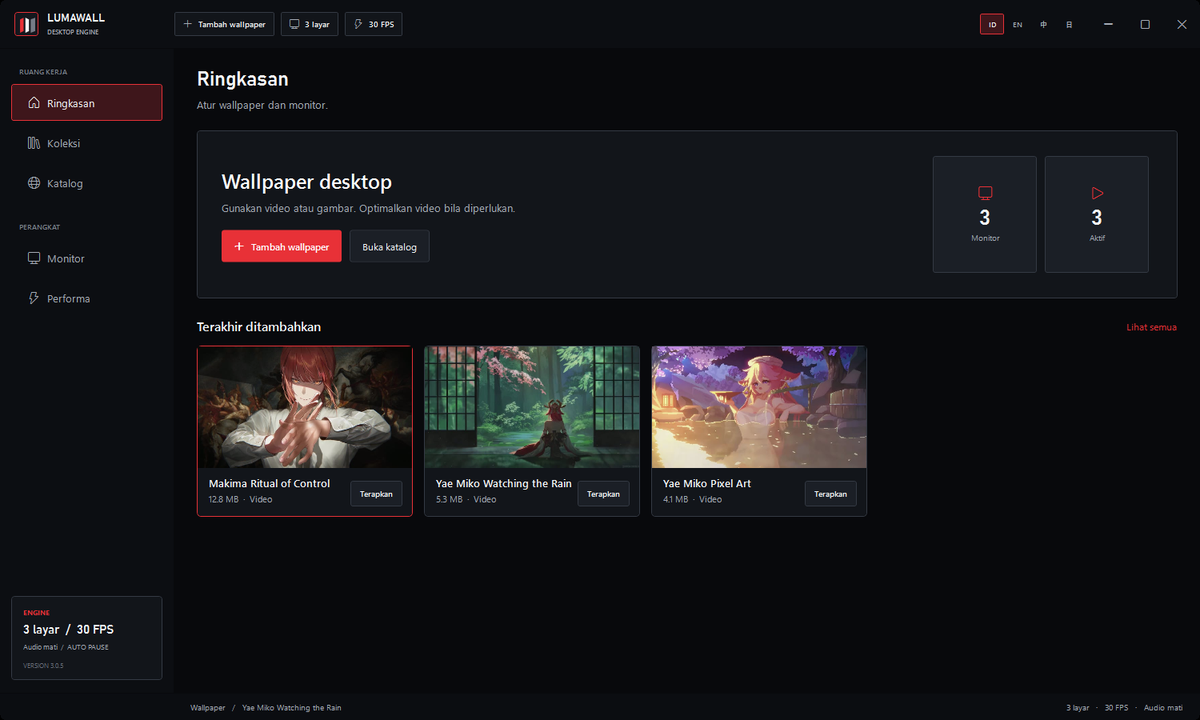
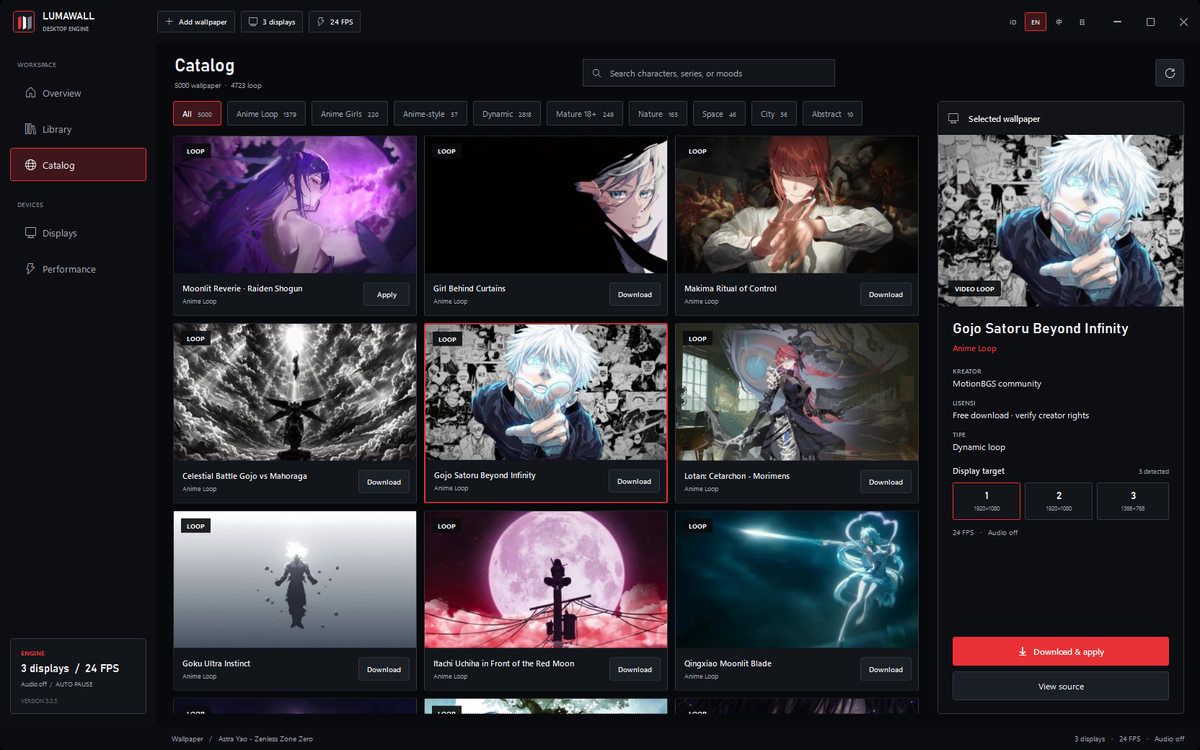
Remove AI-tell punctuation, fix wrong platform fact, re-capture LumaWall and Amara
Em dashes: the em dash is a well-known tell of AI-written copy and the brief is
that the site must not read as machine-written. Removed from every user-visible
string (metadata titles, aria-labels, product copy, feature lists) and replaced
with a comma, a colon or a middot depending on what the dash was doing. Code
comments were left alone — a comment is never read by a visitor. Verified by
walking the rendered DOM of all six routes: 0 occurrences, including alt/title/
aria-label attributes. The unused `constellationLabel` entry was deleted.

Platform fact was wrong: AkunTuntas was listed as "Web" but it is a Windows
desktop application (AkunTuntas.exe plus an installer, and its own app_info.json
declares os: Windows 10/11 64-bit). Corrected to Windows. Audited the other four
at the same time: NexShop and SayBot are web, Amara and LumaWall are Windows.

Captures re-taken where the source was missing or too small:
* LumaWall — the shipped 1500x900 was the app's default window size. The window
  is now resized to an exact 16:10 box before capture (1664x1040), because the
  tile grid is 16:10 and uses object-cover, so any other ratio loses its sides.
  The catalog screen is shown rather than the summary.
* Amara — re-captured at 1800x1100 (was 1173x724), cropped to 16:10 from the
  centre so both the avatar panel and the chat panel stay in frame, with the
  native Windows title bar removed since the site draws its own macOS frame.
[…]

diff --git a/src/lib/content.ts b/src/lib/content.ts
@@ -1,5 +1,5 @@
 /**
- * Xinet — bilingual content dictionary (ID / EN).
+ * Xinet bilingual content dictionary (ID / EN).
  * Every user-facing string lives here so copy stays consistent and auditable.
  */
 
@@ -64,8 +64,8 @@ export const PRODUCTS: Product[] = [
     shot: "/products/saybot.webp",
     shotTitle: "saybot.nexshop.cloud",
     shotAlt: {
-      id: "Halaman SayBot yang menjelaskan penyatuan WhatsApp, Telegram, Email, dan Chat Website dalam satu alur kerja.",
-      en: "SayBot landing page describing WhatsApp, Telegram, Email and Website Chat unified in one workflow.",
+      id: "Halaman depan SayBot yang menjelaskan penyatuan WhatsApp, Telegram, Email, dan Chat Website.",
+      en: "The SayBot landing page describing WhatsApp, Telegram, Email and Website Chat unified.",
     },
   },
   {
@@ -80,7 +80,7 @@ export const PRODUCTS: Product[] = [
     url: null,
     hue: "167 139 250",
     shot: "/products/akuntuntas.webp",
-    shotTitle: "AkunTuntas — Laporan Keuangan",
+    shotTitle: "AkunTuntas · Laporan Keuangan",
     shotAlt: {
       id: "Layar laporan laba rugi AkunTuntas dengan ringkasan pendapatan, laba, dan margin.",
       en: "AkunTuntas income statement screen showing revenue, profit and margin summaries.",
@@ -98,7 +98,7 @@ export const PRODUCTS: Product[] = [
     url: null,
     hue: "196 181 253",
     shot: "/products/amara.webp",
-    shotTitle: "Amara — AI Assistant",
+    shotTitle: "Amara · AI Assistant",
     shotAlt: {
       id: "Aplikasi Amara AI Assistant menampilkan avatar 3D dan panel percakapan.",
       en: "Amara AI Assistant app showing its 3D avatar and chat panel.",
@@ -116,10 +116,10 @@ export const PRODUCTS: Product[] = [
     url: null,
     hue: "125 211 252",
     shot: "/products/lumawall.webp",
-    shotTitle: "LumaWall — Desktop Engine",
+    shotTitle: "LumaWall · Desktop Engine",
     shotAlt: {
-      id: "Aplikasi LumaWall menampilkan galeri wallpaper dan pengaturan monitor.",
-      en: "LumaWall app showing its wallpaper gallery and monitor controls.",
+      id: "Katalog wallpaper LumaWall dengan pilihan monitor.",
+      en: "The LumaWall wallpaper catalog with monitor selection.",
     },
   },
 ];
@@ -137,7 +137,7 @@ export const STRIP: string[] = [
  * Per-product detail, shown on /projects/<id>.
  *
  * These pages exist so a visitor can click a card and actually see what the
- * product IS — the problem it answers, the vision behind it, what it does today,
+ * product IS: the problem it answers, the vision behind it, what it does today,
  * and real captures of it running. Everything here is derived from the shipped
  * products; no roadmap items are presented as features, and no metric is
  * invented.
@@ -148,7 +148,7 @@ export type ProjectDetail = {
   tagline: Bi;
   /** The problem this product exists to solve. */
   problem: Bi;
-  /** The vision — where it is going and why it matters. */
+  /** The vision: where it is going and why it matters. */
   vision: Bi;
   /** What it does today, as shipped. */
   features: { title: Bi; body: Bi }[];
@@ -172,8 +172,8 @@ export const PROJECT_DETAILS: ProjectDetail[] = [
       en: "Buying game top-ups and digital products in Indonesia is still full of steps: manual transfer, confirmation over chat, then waiting with no clarity. Buyers cannot tell whether their order is being processed, and sellers spend their day answering the same questions.",
     },
     vision: {
-      id: "NexShop dibangun supaya jarak antara \"aku mau beli\" dan \"pesananku selesai\" sesingkat mungkin — tanpa chat, tanpa menunggu tanpa kabar. Ke depan, NexShop jadi tulang punggung commerce digital Xinet: satu tempat untuk produk, pembayaran, dan reseller yang semuanya jalan otomatis.",
-      en: "NexShop exists to make the distance between \"I want to buy\" and \"my order is done\" as short as possible — no chat, no silent waiting. Going forward it becomes the backbone of Xinet's digital commerce: one place for products, payments and resellers, all running automatically.",
+      id: "NexShop dibangun supaya jarak antara \"aku mau beli\" dan \"pesananku selesai\" sesingkat mungkin: tanpa chat, tanpa menunggu tanpa kabar. Ke depan, NexShop jadi tulang punggung commerce digital Xinet: satu tempat untuk produk, pembayaran, dan reseller yang semuanya jalan otomatis.",
+      en: "NexShop exists to make the distance between \"I want to buy\" and \"my order is done\" as short as possible: no chat, no silent waiting. Going forward it becomes the backbone of Xinet's digital commerce: one place for products, payments and resellers, all running automatically.",
     },
     status: {
       id: "Berjalan & melayani pesanan nyata",
@@ -293,19 +293,19 @@ export const PROJECT_DETAILS: ProjectDetail[] = [
     gallery: [
       {
         src: "/products/tile-saybot.webp",
-        caption: { id: "Ruang kerja perpesanan SayBot.", en: "The SayBot messaging workspace." },
+        caption: { id: "Halaman depan SayBot dan alur kerjanya.", en: "The SayBot landing page and its workflow." },
       },
       {
         src: "/products/tile-saybot-2.webp",
-        caption: { id: "Alur kerja dan tahapan pesan.", en: "The workflow and message stages." },
+        caption: { id: "Tahapan pengiriman dan kotak masuk gabungan.", en: "Delivery stages and the unified inbox." },
       },
       {
         src: "/products/tile-saybot-3.webp",
-        caption: { id: "Fitur utama SayBot.", en: "SayBot's main features." },
+        caption: { id: "Paket harga SayBot.", en: "SayBot pricing plans." },
       },
       {
         src: "/products/tile-saybot-4.webp",
-        caption: { id: "Alur kerja dan paket harga.", en: "Workflow and pricing plans." },
+        caption: { id: "Halaman masuk ke ruang kerja.", en: "The workspace sign-in page." },
       },
     ],
     facts: [
@@ -321,8 +321,8 @@ export const PROJECT_DETAILS: ProjectDetail[] = [
       en: "Bookkeeping you can actually finish on your own.",
     },
     problem: {
-      id: "Pemilik usaha kecil tahu uangnya masuk dan keluar, tapi tidak tahu labanya berapa. Software akuntansi yang ada dirancang untuk akuntan — penuh istilah yang harus dipelajari dulu sebelum bisa dipakai.",
-      en: "Small business owners know money comes in and goes out, but not what their profit is. Existing accounting software is built for accountants — full of terms you must learn before you can use it.",
+      id: "Pemilik usaha kecil tahu uangnya masuk dan keluar, tapi tidak tahu labanya berapa. Software akuntansi yang ada dirancang untuk akuntan, penuh istilah yang harus dipelajari dulu sebelum bisa dipakai.",
+      en: "Small business owners know money comes in and goes out, but not what their profit is. Existing accounting software is built for accountants, full of terms you must learn before you can use it.",
     },
     vision: {
       id: "AkunTuntas dibangun supaya pemilik usaha bisa menutup buku sendiri, tanpa harus paham debit-kredit lebih dulu. Visinya sederhana: laporan keuangan yang bisa dipercaya, dihasilkan oleh orang yang menjalankan bisnisnya sendiri.",
@@ -347,8 +347,8 @@ export const PROJECT_DETAILS: ProjectDetail[] = [
       {
         title: { id: "Laporan laba rugi", en: "Income statements" },
         body: {
-          id: "Pendapatan, laba, dan margin dalam satu layar — jawaban atas pertanyaan paling sering pemilik usaha.",
-          en: "Revenue, profit and margin on one screen — the answer to an owner's most common question.",
+          id: "Pendapatan, laba, dan margin dalam satu layar, jawaban atas pertanyaan paling sering pemilik usaha.",
+          en: "Revenue, profit and margin on one screen: the answer to an owner's most common question.",
         },
       },
       {
@@ -374,12 +374,12 @@ export const PROJECT_DETAILS: ProjectDetail[] = [
       },
       {
         src: "/products/tile-akuntuntas-4.webp",
-        caption: { id: "Tampilan analisis pembukuan.", en: "The bookkeeping analysis view." },
+        caption: { id: "Daftar pelanggan dan pemasok.", en: "The customers and suppliers list." },
       },
     ],
     facts: [
       { label: { id: "Kategori", en: "Category" }, value: { id: "Alat bisnis", en: "Business tools" } },
-      { label: { id: "Platform", en: "Platform" }, value: { id: "Web", en: "Web" } },
+      { label: { id: "Platform", en: "Platform" }, value: { id: "Windows", en: "Windows" } },
       { label: { id: "Status", en: "Status" }, value: { id: "Internal", en: "Internal" } },
     ],
   },
@@ -390,8 +390,8 @@ export const PROJECT_DETAILS: ProjectDetail[] = [
       en: "An AI with a face, not just a text box.",
     },
     problem: {
-      id: "Asisten AI hari ini terasa seperti formulir. Kamu mengetik, membaca, menunggu. Tidak ada kehadiran, tidak ada rasa sedang berbicara dengan sesuatu — padahal yang dibutuhkan banyak orang justru rasa ditemani.",
-      en: "Today's AI assistants feel like a form. You type, read, wait. There is no presence, no sense of talking to something — yet what many people actually want is the feeling of company.",
+      id: "Asisten AI hari ini terasa seperti formulir. Kamu mengetik, membaca, menunggu. Tidak ada kehadiran, tidak ada rasa sedang berbicara dengan sesuatu, padahal yang dibutuhkan banyak orang justru rasa ditemani.",
+      en: "Today's AI assistants feel like a form. You type, read, wait. There is no presence, no sense of talking to something, yet what many people actually want is the feeling of company.",
     },
     vision: {
       id: "Amara mengeksplorasi bentuk lain dari AI: sesuatu yang hadir di desktop, punya avatar, dan bisa diajak bicara dengan suara. Ini eksperimen jangka panjang soal bagaimana komputer bisa terasa menemani tanpa berpura-pura jadi manusia.",
@@ -478,8 +478,8 @@ export const PROJECT_DETAILS: ProjectDetail[] = [
       {
         src: "/products/tile-lumawall.webp",
         caption: {
-          id: "LumaWall dengan galeri wallpaper dan kontrol monitor.",
-          en: "LumaWall with its wallpaper gallery and monitor controls.",
+          id: "Katalog wallpaper LumaWall dengan pemilihan monitor.",
+          en: "The LumaWall wallpaper catalog with monitor targeting.",
         },
       },
     ],
@@ -651,10 +651,6 @@ export const COPY = {
       id: "Logo Xinet",
       en: "Xinet logo",
     },
-    constellationLabel: {
-      id: "Crux — rasi bintang yang membentuk X",
-      en: "Crux — the constellation that forms an X",
-    },
   },
   ecosystem: {
     eyebrow: { id: "Ekosistem Kami", en: "Our Ecosystem" },
@@ -700,8 +696,8 @@ export const COPY = {
     eyebrow: { id: "Ekosistem Sekilas", en: "Ecosystem at a glance" },
     heading: { id: "Terukur, bukan klaim.", en: "Measured, not claimed." },
     body: {
-      id: "Angka di bawah hanya menghitung yang benar-benar sudah berjalan — produk yang dirilis, dan bidang yang kami kerjakan.",
-      en: "The numbers below count only what is actually running — products that shipped, and the areas we work in.",
+      id: "Angka di bawah hanya menghitung yang benar-benar sudah berjalan: produk yang dirilis, dan bidang yang kami kerjakan.",
+      en: "The numbers below count only what is actually running: products that shipped, and the areas we work in.",
     },
   },
   how: {

diff --git a/src/components/reactbits/TileReveal.tsx b/src/components/reactbits/TileReveal.tsx
@@ -195,6 +195,13 @@ export function TileReveal({
     const clearEased = easeInOutCubic(clearP);
     const tileFade = 1 - clamp01((clearP - 0.45) / 0.55);
 
+    // How much the tiles sit back while the headline is held over them. This is
+    // what keeps the headline readable WITHOUT a shadow or a scrim: nothing is
+    // drawn on top of the captures, the artwork itself just dims until the
+    // headline hands over to the content.
+    const headlineFade = 1 - clamp01((p - ZOOM_END) / 0.12);
+    const tileDim = 1 - 0.42 * headlineFade;
+
     for (let i = 0; i < activeItems.length; i++) {
       const el = tileRefs.current[i];
       if (!el) continue;
@@ -225,12 +232,14 @@ export function TileReveal({
       const clearY = rowOffset * 0.12 * viewportH * clearEased * motionScale;
 
       el.style.transform = `translate3d(${flyX + clearX}px, ${clearY}px, 0)`;
-      el.style.opacity = String(flyP > 0 ? tileFade : 0);
+      // The tiles dim slightly while the headline is held over them. This is
+      // what makes the type readable without a shadow or a scrim: nothing is
+      // drawn on top of the captures, the artwork itself just sits back until
+      // the headline hands over to the content.
+      el.style.opacity = String(flyP > 0 ? tileFade * tileDim : 0);
     }
 
-    // Headline holds through the fly-in and zoom, then hands over to the content.
     if (headlineRef.current) {
-      const headlineFade = 1 - clamp01((p - ZOOM_END) / 0.12);
       headlineRef.current.style.opacity = String(headlineFade);
       headlineRef.current.style.transform = `scale(${1 + 0.04 * zoomP})`;
       headlineRef.current.style.pointerEvents = headlineFade < 0.1 ? "none" : "auto";
@@ -334,38 +343,19 @@ export function TileReveal({
         </div>
 
         {/* Headline, held over the tiles.
-            Legibility comes from a TIGHT text shadow that follows the glyphs,
-            plus a small, light scrim — not from a large dark box. An earlier
-            version used a wide, near-opaque scrim, which read as a black cloud
-            sitting on top of the product tiles and hid the very screenshots the
-            section is meant to show.
-            The scrim is now barely there and does the least work: the halo that
-            makes the type readable is attached to each glyph, so the darkening
-            follows the letters instead of blanketing a rectangle of tiles. */}
+            No shadow and no scrim: both were tried and both read as a smudge
+            sitting on top of the product captures. Readability comes from the
+            tiles themselves instead — the grid dims while the headline is up
+            (see `tileDim` in the frame loop), so the type sits on a darker
+            surface without anything being drawn over the artwork.
+            Typography matches the site's other large headings. */}
         {headline && (
           <div className="pointer-events-none absolute inset-0 grid place-items-center px-6">
-            <div className="relative isolate max-w-4xl">
-              <div
-                aria-hidden="true"
-                className="absolute -inset-x-4 -inset-y-3 -z-10 rounded-[3rem]"
-                style={{
-                  background:
-                    "radial-gradient(ellipse at center, rgba(8,10,12,0.34) 0%, rgba(8,10,12,0.18) 52%, rgba(8,10,12,0) 80%)",
-                }}
-              />
-              <div
-                ref={headlineRef}
-                className="text-center text-[clamp(1.75rem,6vw,4.5rem)] leading-[1.06] font-semibold tracking-[-0.04em]"
-                style={{
-                  // The readability work happens here: a tight dark edge around
-                  // every glyph. Because it tracks the letterforms, the tiles
-                  // between and around the words stay visible.
-                  textShadow:
-                    "0 0 2px rgba(8,10,12,1), 0 0 6px rgba(8,10,12,0.95), 0 1px 12px rgba(8,10,12,0.8), 0 2px 22px rgba(8,10,12,0.55)",
-                }}
-              >
-                {headline}
-              </div>
+            <div
+              ref={headlineRef}
+              className="max-w-4xl text-center font-sans text-[clamp(2rem,5vw,3.75rem)] leading-[1.05] font-semibold tracking-[-0.035em]"
+            >
+              {headline}
             </div>
           </div>
         )}

diff --git a/src/components/sections/how-it-works.tsx b/src/components/sections/how-it-works.tsx
@@ -23,8 +23,8 @@ const STEPS: { n: string; title: { id: string; en: string }; body: { id: string;
     n: "01",
     title: { id: "Temukan masalahnya", en: "Find the problem" },
     body: {
-      id: "Kami mulai dari masalah nyata yang orang sudah hadapi setiap hari — bukan dari teknologi yang sedang ramai.",
-      en: "We start from a real problem people already face every day — not from whatever technology is trending.",
+      id: "Kami mulai dari masalah nyata yang orang sudah hadapi setiap hari, bukan dari teknologi yang sedang ramai.",
+      en: "We start from a real problem people already face every day, not from whatever technology is trending.",
     },
   },
   {
@@ -47,8 +47,8 @@ const STEPS: { n: string; title: { id: string; en: string }; body: { id: string;
     n: "04",
     title: { id: "Jalankan dan rawat", en: "Run and maintain it" },
     body: {
-      id: "Produk yang sudah jalan terus dirawat — diperbaiki, dipercepat, dan dikembangkan. Rilis bukan garis akhir.",
-      en: "A shipped product keeps getting maintained — fixed, made faster, extended. Launch is not the finish line.",
+      id: "Produk yang sudah jalan terus dirawat: diperbaiki, dipercepat, dan dikembangkan. Rilis bukan garis akhir.",
+      en: "A shipped product keeps getting maintained: fixed, made faster, extended. Launch is not the finish line.",
     },
   },
 ];

diff --git a/src/app/opengraph-image.tsx b/src/app/opengraph-image.tsx
@@ -15,7 +15,7 @@ import { join } from "path";
  * The wordmark is inlined as a data URL because ImageResponse cannot read from
  * the filesystem at render time.
  */
-export const alt = "Xinet — Build what's next. A digital product company.";
+export const alt = "Xinet · Build what's next. A digital product company.";
 export const size = { width: 1200, height: 630 };
 export const contentType = "image/png";
 // Node runtime: the wordmark is read from disk and inlined as a data URL.
@@ -182,7 +182,7 @@ export default function OpengraphImage() {
                 display: "flex",
               }}
             >
-              We build digital products for real-world problems — commerce,
+              We build digital products for real-world problems: commerce,
               communication, business tools and automation.
             </div>
           </div>

diff --git a/src/app/layout.tsx b/src/app/layout.tsx
@@ -13,7 +13,7 @@ const jakarta = Plus_Jakarta_Sans({
 });
 
 const SITE_URL = "https://xinet.id";
-const TITLE = "Xinet — Build What's Next";
+const TITLE = "Xinet · Build What's Next";
 const DESCRIPTION =
   "Xinet is a digital product company building products across commerce, communication, business tools, automation and emerging technology.";
 
@@ -21,7 +21,7 @@ export const metadata: Metadata = {
   metadataBase: new URL(SITE_URL),
   title: {
     default: TITLE,
-    template: "%s — Xinet",
+    template: "%s · Xinet",
   },
   description: DESCRIPTION,
   applicationName: "Xinet",

diff --git a/src/app/projects/[id]/page.tsx b/src/app/projects/[id]/page.tsx
@@ -33,7 +33,7 @@ export async function generateMetadata({
   const detail = getProjectDetail(id);
   if (!product || !detail) return {};
 
-  const title = `${product.name} — ${detail.tagline.en}`;
+  const title = `${product.name} · ${detail.tagline.en}`;
   const description = `${detail.tagline.en} ${detail.problem.en}`.slice(0, 300);
   const url = `https://xinet.id/projects/${product.id}`;
 

diff --git a/src/components/sections/featured-products.tsx b/src/components/sections/featured-products.tsx
@@ -77,8 +77,8 @@ function ProductCardBody({ product, index }: { product: Product; index: number }
   const ctaLabel = t(product.cta);
   const ariaLabel =
     lang === "id"
-      ? `${ctaLabel} — buka di tab baru`
-      : `${ctaLabel} — opens in a new tab`;
+      ? `${ctaLabel} · buka di tab baru`
+      : `${ctaLabel} · opens in a new tab`;
 
   const inner = (
     <GlareHover

diff --git a/src/components/layout/navbar.tsx b/src/components/layout/navbar.tsx
@@ -61,7 +61,7 @@ export function Navbar() {
         <ScrollLink
           href="#top"
           className="flex shrink-0 items-center rounded-md py-2"
-          ariaLabel="Xinet — beranda"
+          ariaLabel="Xinet · beranda"
         >
           <XinetLogo variant="wordmark" height={22} priority alt={t(COPY.hero.logoAlt)} />
         </ScrollLink>
